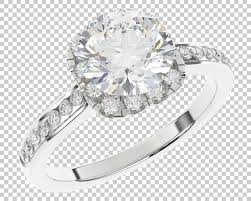
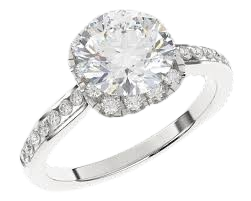
a
a

diff --git a/static/style.css b/static/style.css
@@ -1,6 +1,7 @@
 body {
     margin: 0; /* Removes the gap between top of the page and navbar */
     height: 100vh;
+    font-family: 'Lucida Sans', 'Lucida Sans Regular', 'Lucida Grande', 'Lucida Sans Unicode', Geneva, Verdana, sans-serif;
 }
 
 
@@ -25,7 +26,6 @@ nav h2 {
     color: rgb(31, 31, 31);
     border-radius: 10px;
 
-    font-family: 'Lucida Sans', 'Lucida Sans Regular', 'Lucida Grande', 'Lucida Sans Unicode', Geneva, Verdana, sans-serif;
     font-style: italic;
     font-weight: 400;
     overflow: hidden;
@@ -36,12 +36,12 @@ nav h2 {
     margin-right: auto;
     display: flex;
     gap: 20px;
+    align-items: center;
 }
 .navbar_links a{
     color: rgb(31, 31, 31);
     border-radius: 10px;
 
-    font-family: 'Lucida Sans', 'Lucida Sans Regular', 'Lucida Grande', 'Lucida Sans Unicode', Geneva, Verdana, sans-serif;
     font-style: italic;
     text-decoration: none;
     font-weight: 400;
@@ -68,7 +68,7 @@ nav h2 {
 
     gap: 10px;
 }
-.cart_button img {
+.cart_button img, .cart_button a {
     display: inline-block;
     width: 28px;
     height: 28px;
@@ -89,7 +89,6 @@ nav h2 {
 /* Searchbar Stuff */
 .search_bar input, button{
     border-radius: 5px;
-    font-family: 'Lucida Sans', 'Lucida Sans Regular', 'Lucida Grande', 'Lucida Sans Unicode', Geneva, Verdana, sans-serif;
     font-style: italic;
 }
 .search_bar {
@@ -99,6 +98,11 @@ nav h2 {
 .dropdown_menu {
     position: relative;
     display: inline-block;
+}
+.dropdown_menu a {
+    display: flex;
+    align-items: center;
+    gap: 5px;
 }
 .shop_dropdown {
     display: none;
@@ -121,7 +125,6 @@ nav h2 {
 }
 
 .shop_dropdown li { /* Style the elements in the dropdown menu */
-    font-family: 'Lucida Sans', 'Lucida Sans Regular', 'Lucida Grande', 'Lucida Sans Unicode', Geneva, Verdana, sans-serif;
     font-style: italic;
 
     list-style: none;

diff --git a/templates/home.html b/templates/home.html
@@ -12,7 +12,6 @@
         <h2> Crown Jewels </h2>
         <div class = "navbar_links">
             <a href="#">Home</a>
-
             <div class="dropdown_menu">
                 <a href="{{ url_for('shop') }}">Shop <span class="dropdown">⏷</span> </a>
                 <ul class="shop_dropdown">
@@ -29,8 +28,9 @@
                 </form>
             </div>
             <div class="cart_button">
-                <img src="{{ url_for('static', filename='images/card.png') }}" alt="Shopping Cart Icon"> </span> <!-- all variables set by flask have to be wrapped inside those brackets I guess -->
-                <h3 class="ITEM_PRICE"> {{ ITEM_COUNT }} </h3> <!-- all caps for class, because for all elements that use class for variables later on ill use all caps -->
+                <a href="https://www.google.com">
+                    <img src="{{ url_for('static', filename='images/card.png') }}" alt="Shopping Cart Icon"> </span> <!-- all variables set by flask have to be wrapped inside those brackets I guess --><!-- all caps for class, because for all elements that use class for variables later on ill use all caps -->
+                </a>
             </div>
         </div>
     </nav>

diff --git a/templates/search.html b/templates/search.html
@@ -30,7 +30,6 @@
             </div>
             <div class="cart_button">
                 <img src="{{ url_for('static', filename='images/card.png') }}" alt="Shopping Cart Icon"> </span> <!-- all variables set by flask have to be wrapped inside those brackets I guess -->
-                <h3 class="ITEM_PRICE"> {{ ITEM_COUNT }} </h3> <!-- all caps for class, because for all elements that use class for variables later on ill use all caps -->
             </div>
         </div>
     </nav>

diff --git a/templates/shop.html b/templates/shop.html
@@ -30,7 +30,6 @@
             </div>
             <div class="cart_button">
                 <img src="{{ url_for('static', filename='images/card.png') }}" alt="Shopping Cart Icon"> </span> <!-- all variables set by flask have to be wrapped inside those brackets I guess -->
-                <h3 class="ITEM_PRICE"> {{ ITEM_COUNT }} </h3> <!-- all caps for class, because for all elements that use class for variables later on ill use all caps -->
             </div>
         </div>
     </nav>
